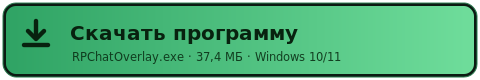
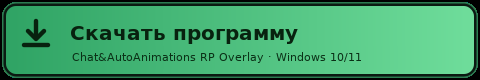
Rebrand product as Chat&AutoAnimations RP Overlay

Changed region(s): [[0.0, 0.0, 1.0, 1.0], [0.125, 0.65, 0.75, 0.8]]

diff --git a/source/app/config.py b/source/app/config.py
@@ -19,6 +19,7 @@ from __future__ import annotations
 import json
 import logging
 import os
+import shutil
 import sys
 from pathlib import Path
 from typing import Any, Final, Mapping
@@ -32,9 +33,11 @@ def _root() -> Path:
 
     Program folder: next to the .exe in a build, or the source folder otherwise.
     Если писать в неё нельзя (например, Program Files), данные переезжают
-    в %LOCALAPPDATA%\\RPChatOverlay — программа работает и оттуда.
+    в %LOCALAPPDATA%\\Chat_n_AutoAnimations_RP_Overlay. Старые настройки будут
+    скопированы при первом запуске.
     If the folder is not writable (Program Files, for example), data moves to
-    %LOCALAPPDATA%\\RPChatOverlay and the program keeps working from there.
+    %LOCALAPPDATA%\\Chat_n_AutoAnimations_RP_Overlay. Legacy settings are
+    copied on first launch.
     """
     base = (
         Path(sys.executable).resolve().parent
@@ -48,10 +51,20 @@ def _root() -> Path:
         probe.unlink()
         return base
     except OSError:
-        fallback = (
-            Path(os.environ.get("LOCALAPPDATA") or os.environ.get("APPDATA") or Path.home())
-            / "RPChatOverlay"
-        )
+        appdata = Path(os.environ.get("LOCALAPPDATA") or os.environ.get("APPDATA") or Path.home())
+        fallback = appdata / "Chat_n_AutoAnimations_RP_Overlay"
+        legacy_fallback = appdata / "RPChatOverlay"
+        # Сохраняем настройки пользователей, обновляющихся со старого названия.
+        # Preserve settings for users upgrading from the previous product name.
+        # Старое имя папки используется только для однократного переноса.
+        # The legacy folder name is used only for this one-time migration.
+        if not fallback.exists() and legacy_fallback.is_dir():
+            try:
+                shutil.copytree(legacy_fallback, fallback)
+            except OSError:
+                # Remove a partial copy so the next launch can retry safely.
+                shutil.rmtree(fallback, ignore_errors=True)
+                fallback = legacy_fallback
         try:
             fallback.mkdir(parents=True, exist_ok=True)
         except OSError:

diff --git a/source/app/dlx.py b/source/app/dlx.py
@@ -106,7 +106,7 @@ def _http_get_json(url: str, timeout: float = 6.0) -> Any:
     """GET с JSON-ответом (для проверки обновлений) / GET returning JSON."""
     request = urllib.request.Request(url, method="GET")
     request.add_header("Accept", "application/vnd.github+json")
-    request.add_header("User-Agent", "RP-Chat-Overlay")
+    request.add_header("User-Agent", "Chat_n_AutoAnimations_RP_Overlay")
     with urllib.request.urlopen(request, timeout=timeout) as answer:
         return json.loads(answer.read().decode("utf-8", "replace"))
 
@@ -360,7 +360,7 @@ def proxy_exit(proxy: str, timeout: float = 10.0) -> tuple[bool, str]:
             tls.sendall(
                 (
                     f"GET {path} HTTP/1.1\r\nHost: {host}\r\n"
-                    "User-Agent: RP-Chat-Overlay\r\nConnection: close\r\n\r\n"
+                    "User-Agent: Chat_n_AutoAnimations_RP_Overlay\r\nConnection: close\r\n\r\n"
                 ).encode("ascii")
             )
             raw = b""
@@ -1309,7 +1309,9 @@ class DlxService:
             f"{self.binary.name}.{os.getpid()}.{threading.get_ident()}.tmp"
         )
         try:
-            request = urllib.request.Request(url, headers={"User-Agent": "RP-Chat-Overlay"})
+            request = urllib.request.Request(
+                url, headers={"User-Agent": "Chat_n_AutoAnimations_RP_Overlay"}
+            )
             with urllib.request.urlopen(request, timeout=60) as answer, temp.open("wb") as out:
                 while True:
                     chunk = answer.read(65536)
@@ -1339,7 +1341,9 @@ class DlxService:
         """Положить рядом лицензию MIT / keep the MIT license next to the binary."""
         target = self.dir / "LICENSE-DLX.txt"
         try:
-            request = urllib.request.Request(LICENSE_URL, headers={"User-Agent": "RP-Chat-Overlay"})
+            request = urllib.request.Request(
+                LICENSE_URL, headers={"User-Agent": "Chat_n_AutoAnimations_RP_Overlay"}
+            )
             with urllib.request.urlopen(request, timeout=15) as answer:
                 text = answer.read().decode("utf-8", "replace")
         except Exception:

diff --git a/source/app/settings_ui.py b/source/app/settings_ui.py
@@ -1135,7 +1135,7 @@ class SettingsWindow(QDialog):
         self._hist_field = {}  # поле -> последнее значение / field metadata
         self._disk_cache = {"cfg": {}, "docs": {}}  # диск на момент снимка / disk view
 
-        self.setWindowTitle("Настройки — RP Chat Overlay")
+        self.setWindowTitle("Настройки — Chat&AutoAnimations RP Overlay")
         self.setStyleSheet(style_sheet(self._ui_scale()))
         if parent is None:
             self.setWindowFlags(Qt.WindowType.Window)
@@ -1190,7 +1190,7 @@ class SettingsWindow(QDialog):
         root.addWidget(self._build_footer())
 
         self._load_language(self.glang, reload_table=True)
-        self.setWindowTitle(i18n.t("Настройки — RP Chat Overlay"))
+        self.setWindowTitle(i18n.t("Настройки — Chat&AutoAnimations RP Overlay"))
         i18n.retranslate(self)
         self._slang_pending = False
         self._fill_slang()
@@ -1228,7 +1228,10 @@ class SettingsWindow(QDialog):
         lay.setContentsMargins(20, 14, 20, 12)
         lay.setSpacing(2)
         self.header_title = _title(
-            "Настройки" if not self.first_run else "Добро пожаловать в RP Chat Overlay", "h1"
+            "Настройки"
+            if not self.first_run
+            else "Добро пожаловать в Chat&AutoAnimations RP Overlay",
+            "h1",
         )
         lay.addWidget(self.header_title)
         self.header_sub = QLabel()
@@ -6362,7 +6365,7 @@ class SettingsWindow(QDialog):
             # the first run is over, yet the window stays open: the player decides
             # when to finish and the program never hides into the tray by itself
             self.first_run = False
-            self.setWindowTitle(i18n.t("Настройки — RP Chat Overlay"))
+            self.setWindowTitle(i18n.t("Настройки — Chat&AutoAnimations RP Overlay"))
             self.header_title.setText(i18n.t("Настройки"))
             log.info("Первичная настройка завершена, окно остаётся открытым")
         self._flash_hint()

diff --git a/source/app/i18n.py b/source/app/i18n.py
@@ -189,7 +189,7 @@ def retranslate(root):
 STRINGS = {
     # ---------- окно настроек: каркас ----------
     # settings window: the frame
-    "Настройки — RP Chat Overlay": "Settings — RP Chat Overlay",
+    "Настройки — Chat&AutoAnimations RP Overlay": "Settings — Chat&AutoAnimations RP Overlay",
     "Настройки": "Settings",
     "Основные": "General",
     "Автоперевод": "Auto-translation",
@@ -203,7 +203,7 @@ STRINGS = {
     "Вернуть заводские настройки (словари не затрагиваются)": "Restore factory settings (glossaries are kept)",
     "Изменения применятся после «Сохранить».": "Changes apply after you press Save.",
     "Настройки сброшены — нажмите «Сохранить», чтобы применить.": "Settings reset — press Save to apply.",
-    "Добро пожаловать в RP Chat Overlay": "Welcome to RP Chat Overlay",
+    "Добро пожаловать в Chat&AutoAnimations RP Overlay": "Welcome to Chat&AutoAnimations RP Overlay",
     "Язык: %s · горячая клавиша: %s · частота автоперевода: каждое %d-е": "Language: %s · hotkey: %s · auto-translation: every %d-th message",
     # ---------- Основные: язык перевода ----------
     # General: the translation language

diff --git a/source/app/__init__.py b/source/app/__init__.py
@@ -1,6 +1,6 @@
-"""Пакет приложения RP Chat Overlay — переводчик чата для GTA V и FiveM.
+"""Пакет приложения Chat&AutoAnimations RP Overlay — переводчик чата для GTA V и FiveM.
 
-RP Chat Overlay application package: a chat translator for GTA V and FiveM.
+Chat&AutoAnimations RP Overlay application package: a chat translator for GTA V and FiveM.
 
 Структура пакета / package layout:
     config.py       пути, журнал, конфигурация / paths, logging, configuration
@@ -29,13 +29,13 @@ Package modules use absolute imports only, so PyInstaller bundles them reliably.
 
 from __future__ import annotations
 
-APP_NAME = "RP Chat Overlay"
-APP_NAME_FULL = "RP Chat Overlay"
+APP_NAME = "Chat&AutoAnimations RP Overlay"
+APP_NAME_FULL = "Chat&AutoAnimations RP Overlay"
 VERSION = "1.18.0"
 VERSION_TUPLE = (1, 18, 0, 0)
 
 # Имя мьютекса одиночного запуска / single-instance mutex name.
-MUTEX_NAME = "Local\\RPChatOverlayMutex"
+MUTEX_NAME = "Local\\Chat_n_AutoAnimations_RP_OverlayMutex"
 
 # Заголовок главного окна и трея / main window and tray title.
 WINDOW_TITLE = f"Настройки — {APP_NAME}"

diff --git a/source/images/forum/make_forum_reverse.py b/source/images/forum/make_forum_reverse.py
@@ -111,9 +111,9 @@ def flow():
 # --------------------------------------- две кнопки скачивания (480 px)
 def btn_exe():
     w, h = 480, 80
-    t1, t2 = "Скачать программу", "RPChatOverlay.exe · 37,4 МБ · Windows 10/11"
+    t1, t2 = "Скачать программу", "Chat&AutoAnimations RP Overlay · Windows 10/11"
     s1 = fit(t1, 340, 20, bold=True, spacing=0.4)
-    s2 = fit(t2, 336, 11.5)
+    s2 = fit(t2, 390, 11.5)
     b = [
         f'<rect x="3" y="3" width="{w - 6}" height="{h - 6}" rx="13" fill="#0b1a12" stroke="#2b7d51"/>',
         f'<rect x="6" y="6" width="{w - 12}" height="{h - 12}" rx="10" fill="url(#green)"/>',

diff --git a/source/app/overlay.py b/source/app/overlay.py
@@ -178,7 +178,9 @@ def set_app_id() -> None:
     try:
         import ctypes
 
-        ctypes.windll.shell32.SetCurrentProcessExplicitAppUserModelID("RPChatOverlay.Overlay.1")
+        ctypes.windll.shell32.SetCurrentProcessExplicitAppUserModelID(
+            "Chat_n_AutoAnimations_RP_Overlay.Overlay.1"
+        )
     except Exception:
         log.exception("Не удалось задать AppUserModelID для панели задач")
 

diff --git a/source/main.py b/source/main.py
@@ -12,7 +12,7 @@ Application startup and command line service modes.
 
 Примеры / examples:
     python main.py --selftest
-    RPChatOverlay.exe --find-game
+    Chat_n_AutoAnimations_RP_Overlay.exe --find-game
 """
 
 from __future__ import annotations

diff --git a/README.ru.md b/README.ru.md
@@ -66,15 +66,18 @@ Python 3.12 · PySide6 · deep-translator
 
 | Файл | SHA-256 | MD5 | Размер |
 |---|---|---|---|
[2 lines of base64/hex data omitted]
 
-После скачивания проверьте контрольную сумму, затем запустите `RPChatOverlay.exe`.
+Эти суммы относятся только к ранее опубликованному `RPChatOverlay.exe` и не
+проверяют пересобранный файл с новым именем. Проверьте прежний файл перед
+запуском. Для нового EXE перед публикацией нужно получить отдельную контрольную
+сумму и новый отчёт VirusTotal.
 
 ### Из исходников
 
 ```bash
-git clone https://github.com/Ven4esters/RP-Chat-Overlay.git
-cd RP-Chat-Overlay
+git clone https://github.com/Ven4esters/RP-Chat-Overlay.git Chat_n_AutoAnimations_RP_Overlay
+cd Chat_n_AutoAnimations_RP_Overlay
 ```
 
 Запустите `source/start.bat` — он найдёт или установит Python 3.12, создаст
@@ -83,8 +86,10 @@ cd RP-Chat-Overlay
 <a id="virustotal-2-из-70"></a>
 <img src="source/images/forum/hdr_virustotal_ru.png" width="670" alt="VirusTotal и 2 из 70 обнаружений">
 
-В связанном [отчёте VirusTotal](https://www.virustotal.com/gui/file/9a6c8da2e9472ee89ee3a6f6311844ed0a983d00327857a1749dc5782cc34749?nocache=1)
-для этого хеша релиза файл отмечен **2 из 70** антивирусных движков. Само
+Связанный [отчёт VirusTotal](https://www.virustotal.com/gui/file/9a6c8da2e9472ee89ee3a6f6311844ed0a983d00327857a1749dc5782cc34749?nocache=1)
+относится к прежнему файлу релиза (`RPChatOverlay.exe`), а не к пересобранному
+EXE с новым именем. Для прежнего хеша указаны **2 из 70** срабатываний
+антивирусных движков. Само
 соотношение не доказывает ни заражение файла, ни ложное срабатывание: движки
 используют разные сигнатуры и эвристики, а результаты со временем меняются.
 
@@ -96,9 +101,10 @@ cd RP-Chat-Overlay
 объяснение именно двух срабатываний. Точные названия движков и вердиктов
 смотрите в актуальном отчёте.
 
-Скачивайте EXE только со страницы [GitHub Releases](https://github.com/Ven4esters/RP-Chat-Overlay/releases)
-и сверяйте SHA-256 со значением выше. Если контрольная сумма не совпадает, не
-запускайте файл. Если антивирус блокирует программу, проверьте точное название
+Скачивайте EXE только со страницы [GitHub Releases](https://github.com/Ven4esters/RP-Chat-Overlay/releases).
+Для прежнего файла сверяйте SHA-256 со значением выше — оно не подходит для
+пересобранной версии с новым именем. Если сумма не совпадает, не запускайте
+файл. Если антивирус блокирует программу, проверьте точное название
 срабатывания и отправьте файл на анализ разработчику антивируса вместо
 глобального отключения защиты.
 

diff --git a/CHANGES.md b/CHANGES.md
@@ -8,6 +8,16 @@ This file records changes and their reasons so the same problems are not repeate
 
 ---
 
+## 2026-11-15 — Product rebrand to Chat&AutoAnimations RP Overlay
+
+**What changed:** Updated the product display name, application metadata, user-agent identifiers, mutex and data-folder identifiers, build spec and executable name, Windows build scripts/workflows, download graphics source, and English/Russian README references to use `Chat&AutoAnimations RP Overlay` and `Chat_n_AutoAnimations_RP_Overlay.exe`. The GitHub repository URL and repository identity remain unchanged. Kept the existing animation-export format identifier unchanged so previously exported rules remain compatible.
+
+**Upgrade compatibility:** When the application cannot write beside its executable, it now copies existing settings from the legacy `%LOCALAPPDATA%\\RPChatOverlay` directory into the newly named data directory on first launch. If copying fails, it continues using the legacy directory to avoid losing access to user settings.
+
+**Checks:** `ruff check source`, `ruff format --check source`, `python -m pytest source/tests -q` (48 passed), `python -m compileall -q source`, and `git diff --check` passed. A Windows executable build was not run in this Linux environment.
+
+---
+
 ## 2026-11-15 — Recent README and license updates
 
 **Commits:** `8d3b608`, `dc9ed6a`, `f1248c9`, `0ed4fe4`, `72bc046`, `a9634cd`, `2b053b0`.
@@ -132,6 +142,16 @@ Remaining partial items are test coverage and public docstring coverage; the pro
 # Справка о правках
 
 Этот файл фиксирует внесённые правки и их причины, чтобы не наступать на одни и те же грабли повторно.
+
+---
+
+## 2026-11-15 — Переименование продукта в Chat&AutoAnimations RP Overlay
+
+**Что изменено:** Обновлены отображаемое имя продукта, метаданные приложения, идентификаторы User-Agent, мьютекса и папки данных, spec сборки и имя EXE, BAT/CI-сборка, исходник кнопки скачивания, а также английский и русский README. Новое имя приложения — `Chat&AutoAnimations RP Overlay`, исполняемого файла — `Chat_n_AutoAnimations_RP_Overlay.exe`. URL и идентификатор GitHub-репозитория сохранены. Идентификатор формата экспорта анимаций оставлен без изменений для совместимости с ранее сохранёнными правилами.
+
+**Совместимость при обновлении:** Если приложению нельзя писать рядом с EXE, при первом запуске оно копирует настройки из прежней папки `%LOCALAPPDATA%\\RPChatOverlay` в новую. Если копирование не удалось, приложение продолжит использовать старую папку, чтобы не потерять доступ к настройкам.
+
+**Проверки:** `ruff check source`, `ruff format --check source`, `python -m pytest source/tests -q` (48 тестов пройдены), `python -m compileall -q source` и `git diff --check` прошли. Сборка Windows EXE в этой среде Linux не выполнялась.
 
 ---
 

diff --git a/README.md b/README.md
@@ -67,15 +67,18 @@ Download the latest build from [GitHub Releases](https://github.com/Ven4esters/R
 
 | File | SHA-256 | MD5 | Size |
 |---|---|---|---|
[2 lines of base64/hex data omitted]
 
-Verify the checksum after downloading, then run `RPChatOverlay.exe`.
+These checksums identify the previously published `RPChatOverlay.exe` only; they do
+not verify a rebuilt, renamed executable. Verify that legacy file before running
+it. The renamed build will need its own checksum and VirusTotal report before
+publication.
 
 ### From sources
 
 ```bash
-git clone https://github.com/Ven4esters/RP-Chat-Overlay.git
-cd RP-Chat-Overlay
+git clone https://github.com/Ven4esters/RP-Chat-Overlay.git Chat_n_AutoAnimations_RP_Overlay
+cd Chat_n_AutoAnimations_RP_Overlay
 ```
 
 Run `source/start.bat` — it finds or installs Python 3.12, creates a virtual
@@ -85,7 +88,7 @@ environment, installs dependencies and launches the app.
 <img src="source/images/forum/hdr_virustotal_en.png" width="1000" alt="VirusTotal report and 2/70 detections">
 
 The linked [VirusTotal report](https://www.virustotal.com/gui/file/9a6c8da2e9472ee89ee3a6f6311844ed0a983d00327857a1749dc5782cc34749?nocache=1)
-for this release hash shows **2 of 70** antivirus engines flagging the executable.
+refers to the previous release file (`RPChatOverlay.exe`), not a rebuilt renamed executable. That release hash shows **2 of 70** antivirus engines flagging the executable.
 The ratio alone does not prove either that the file is malicious or that the
 detections are false positives; engines use different signatures and heuristics,
 and results can change over time.
@@ -99,8 +102,9 @@ explanations for the exact two detections. Check the engine names and detection
 labels in the linked report for the current details.
 
 Download the executable only from the official [GitHub Releases](https://github.com/Ven4esters/RP-Chat-Overlay/releases)
-page and verify its SHA-256 against the value above. If the checksum differs,
-do not run the file. If your antivirus blocks it, review the vendor's exact
+page. For the previous release file, verify its SHA-256 against the value above;
+that value is not valid for a renamed rebuild. If a checksum differs, do not run
+the file. If your antivirus blocks it, review the vendor's exact
 detection name and submit the file to that vendor for analysis rather than
 disabling protection globally.
 

diff --git a/STYLEGUIDE.md b/STYLEGUIDE.md
@@ -1,6 +1,6 @@
 # Styleguide проекта / Project Styleguide
 
-Единый стандарт оформления кода для RP-Chat-Overlay. Все правила проверяются
+Единый стандарт оформления кода для Chat&AutoAnimations RP Overlay. Все правила проверяются
 автоматически: линтером `ruff`, форматером `ruff format`, типами `mypy`.
 
 ## 1. Базовые принципы чистоты кода
